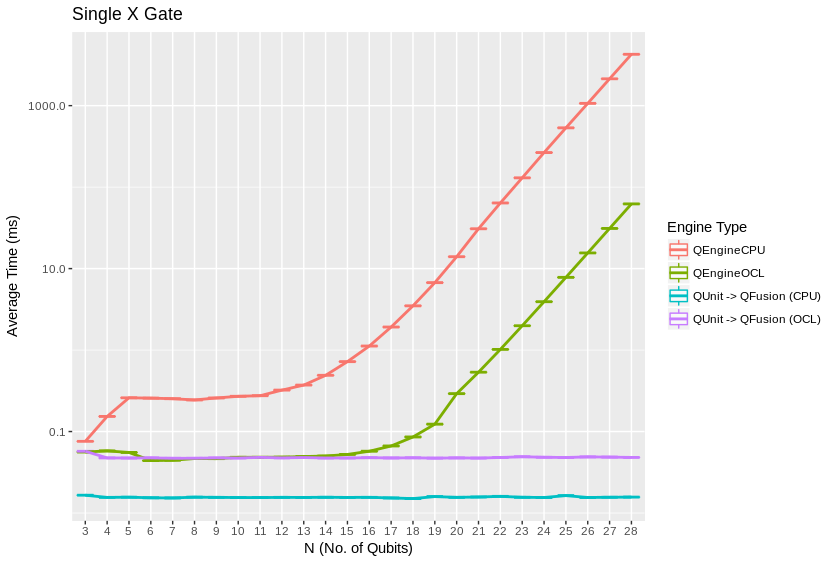
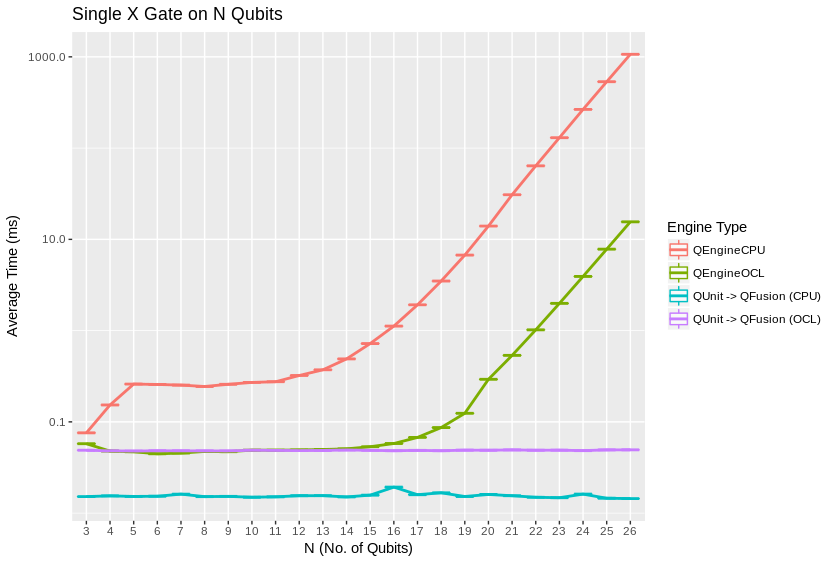
V3 Benchmarks

diff --git a/docs/performance.rst b/docs/performance.rst
@@ -47,8 +47,11 @@ engine type, (per [Pednault2017]_,) and "QFusion" provides a "gate fusion"
 layer. A "QEngine" type is always the base layer, and QUnit and QFusion types 
 may be layered over these, and over each other.
 
-Future publications will compare the performance of Qrack against other
-publicly available simulators, as rigorous implementations can be implemented.
+This version of the Qrack benchmarks contains comparisons against other
+publicly available simulators, specifically QCGPU and ProjectQ (with its
+default simulator). Note that Qrack has been incorporated into an optional
+back end for ProjectQ, in a fork maintained by the developers of Qrack, and
+benchmarks for its performance will follow.
 
 Reader Guidance
 ===============
@@ -72,7 +75,11 @@ Disclaimers
 Method
 ******
 
-100 timed trials of single and parallel gates were run for each qubit count between 3 and 28 qubits. CPU and GPU benchmarks were run on two respective systems that could represent realistic use cases for each engine type. An AWS p3.2xlarge running Ubuntu Server 18.04LTS was used for GPU benchmarks. An Alienware 17 R5 with an Intel(R) Core(TM) i7-8750H running Ubuntu 18.04LTS was used for CPU benchmarks. The average and quartile boundary values of each set of 100 were recorded and graphed. Grover's search to invert a black box subroutine, or "oracle," was similarly implemented for trials between 3 and 18 qubits. Grover's algorithm was iterated an optimal number of times, vs. qubit count, to maximize probability on a half cycle of the algorithm's period, being :math:`floor\left[\frac{\pi}{4asin\left(1/\sqrt{2^N}\right)}\right]` iterations for :math:`N` qubits. A quantum fourier transform was run for 100 trials between 3 and 26 qubits on the GPU engine types.
+100 timed trials of single and parallel gates were run for each qubit count between 3 and 28 qubits. CPU and GPU benchmarks were run on two respective systems that could represent realistic use cases for each engine type. An AWS p3.2xlarge running Ubuntu Server 18.04LTS was used for GPU benchmarks. An Alienware 17 R5 with an Intel(R) Core(TM) i7-8750H running Ubuntu 18.04LTS was used for Qrack CPU benchmarks. The average and quartile boundary values of each set of 100 were recorded and graphed. Grover's search to invert a black box subroutine, or "oracle," was similarly implemented for trials between 3 and 18 qubits. Grover's algorithm was iterated an optimal number of times, vs. qubit count, to maximize probability on a half cycle of the algorithm's period, being :math:`floor\left[\frac{\pi}{4asin\left(1/\sqrt{2^N}\right)}\right]` iterations for :math:`N` qubits.
+
+A quantum fourier transform was run for 100 trials between 3 and 26 qubits on the GPU engine types. ProjectQ and QCGPU were also benchmarked for this test, on an AWS p3.2xlarge running Ubuntu Server 18.04LTS, with the benchmarking code provided by QCGPU, in python. The benchmarking script from QCGPU iterates at random between the engine options. 200 total trials were run for the set of QCGPU and ProjectQ, selected by approximately equal probability random chance in each of the 200 iterations.
+
+QFT iterations were "chained" in a unitary manner starting from the |0> permutation state, such that every other step entangled and unentangled the full set of qubits. This is a representative test of Qrack::QUnit performance, because it varies largely with degree of representational entanglement. QUnit explicitly separates the representation of qubit subsystems when it can, such that performance differs greatly between entirely separable and entirely entangled cases, hence we need to show best and worst cases. Separability considerations do not affect maximally entangled representations, as are all other simulators tested here, (though ProjectQ includes a compilation layer on top of its default simulator). 
 
 Heap profiling was carried out with Valgrind Massif. Heap sampling was limited but ultimately sufficient to show statistical confidence.
 
@@ -101,14 +108,20 @@ Grover's algorithm is a relatively ideal test case, in that it allows a modicum 
 
 [Broda2016]_ discusses how Grover's might be adapted in practicality to actually "search an unstructured database," or search an unstructured lookup table, and Qrack is also capable of applying Grover's search to a lookup table with its IndexedLDA, IndexedADC, and IndexedSBC methods. Benchmarks are not given for this arguably more practical application of the algorithm, because few other quantum computer simulator libraries implement it, yet.
 
-The Quantum Fourier transform (QFT) is another realistic test case. QEngineCPU took approximately 100 seconds per 1 trial (of 100) for 22 qubits and approximately 200 seconds for a 23 qubit QFT, and testing the QEngineCPU type therefore become prohibitive, for the full range of qubits between 3 and 26. To avoid confusion in the graph, and since QEngineCPU might therefore be impractical for large QFTs, we leave both it and its QUnit/QFusion variant off the graph. At the end of every QFT trial, explicit separability was reset with a measurement operation across the entire Fourier-transformed unit of qubits, i.e. every trial was the ideal case for QUnit of entirely separable qubits, which might not always be realistic. However, the whole set is fairly representative of the difference between best case, of total initial separability for QUnit, and worst case, of total entanglement, with QUnit's performance limiting to the QEngine case, plus modest wrapping and separability testing overhead from the QUnit layer. In the best case for QUnit, significant additional overhead is incurred in combining an additional qubit into the bulk QEngine at each step.
+The Quantum Fourier transform (QFT) is another realistic test case. Other simulators were also tested on the QFT. QFT operations were directly "chained," starting from the |0> permutation state. Qrack::QUnit was able to recover full (or virtually full) separability of qubits at every other step of 100 iterations, oscillating between modes of the "entangled" and "separable" QUnit median trends shown in the graph.
+
+QEngineCPU took approximately 100 seconds per 1 trial (of 100) for 22 qubits and approximately 200 seconds for a 23 qubit QFT, and testing the QEngineCPU type therefore become prohibitive, for the full range of qubits between 3 and 26. To avoid confusion in the graph, and since QEngineCPU might therefore be impractical for large QFTs, we leave both it and its QUnit/QFusion variant off the graph.
 
 .. image:: performance/qft.png
+
+For lower numbers of qubits, QEngineOCL outperforms QCGPU. Both simulators follow a smooth exponential trend that appears to reach a knee of faster exponential growth. The "knee" comes at a lower number of qubits for QEngineOCL than for QCGPU, at about 18 qubits versus 24. We will analyze the comparative results in the discussion section.
 
 Discussion
 **********
 
 Up to a consistent deviation at low qubit counts, speed and RAM usage is well predicted by theoretical complexity considerations of the gates, up to a factor of 2 on heap usage for duplication of the state vector.
+
+In the comparative QFT benchmarks, the difference between QCGPU and Qrack in the "knee" in the base engine might be partially do to scalable work distribution in the OpenCL kernels. QEngineOCL is written to distribute work among an arbitrarily small number of processing elements and max work item size. Max work item size is a device-specific hardware parameter limiting how many work items may be dispatched in an OpenCL kernel call. QEngineOCL can distribute large numbers of probability amplitude transformations to small numbers of work items, incurring additional looping overhead, whereas QCGPU is written to dispatch one work item to one processing element. QCGPU requires a large enough hardware max work item size to add higher numbers of qubits, which might or not might not prove prohibitive in addressing the largest possible amount of general RAM. Additionally, Qrack normalizes its state vector at on-the-fly opportunities, to correct for float rounding error, incurring overhead costs but benefiting the accuracy of the simulation over very long strings of gate applications.
 
 Further Work
 ************
